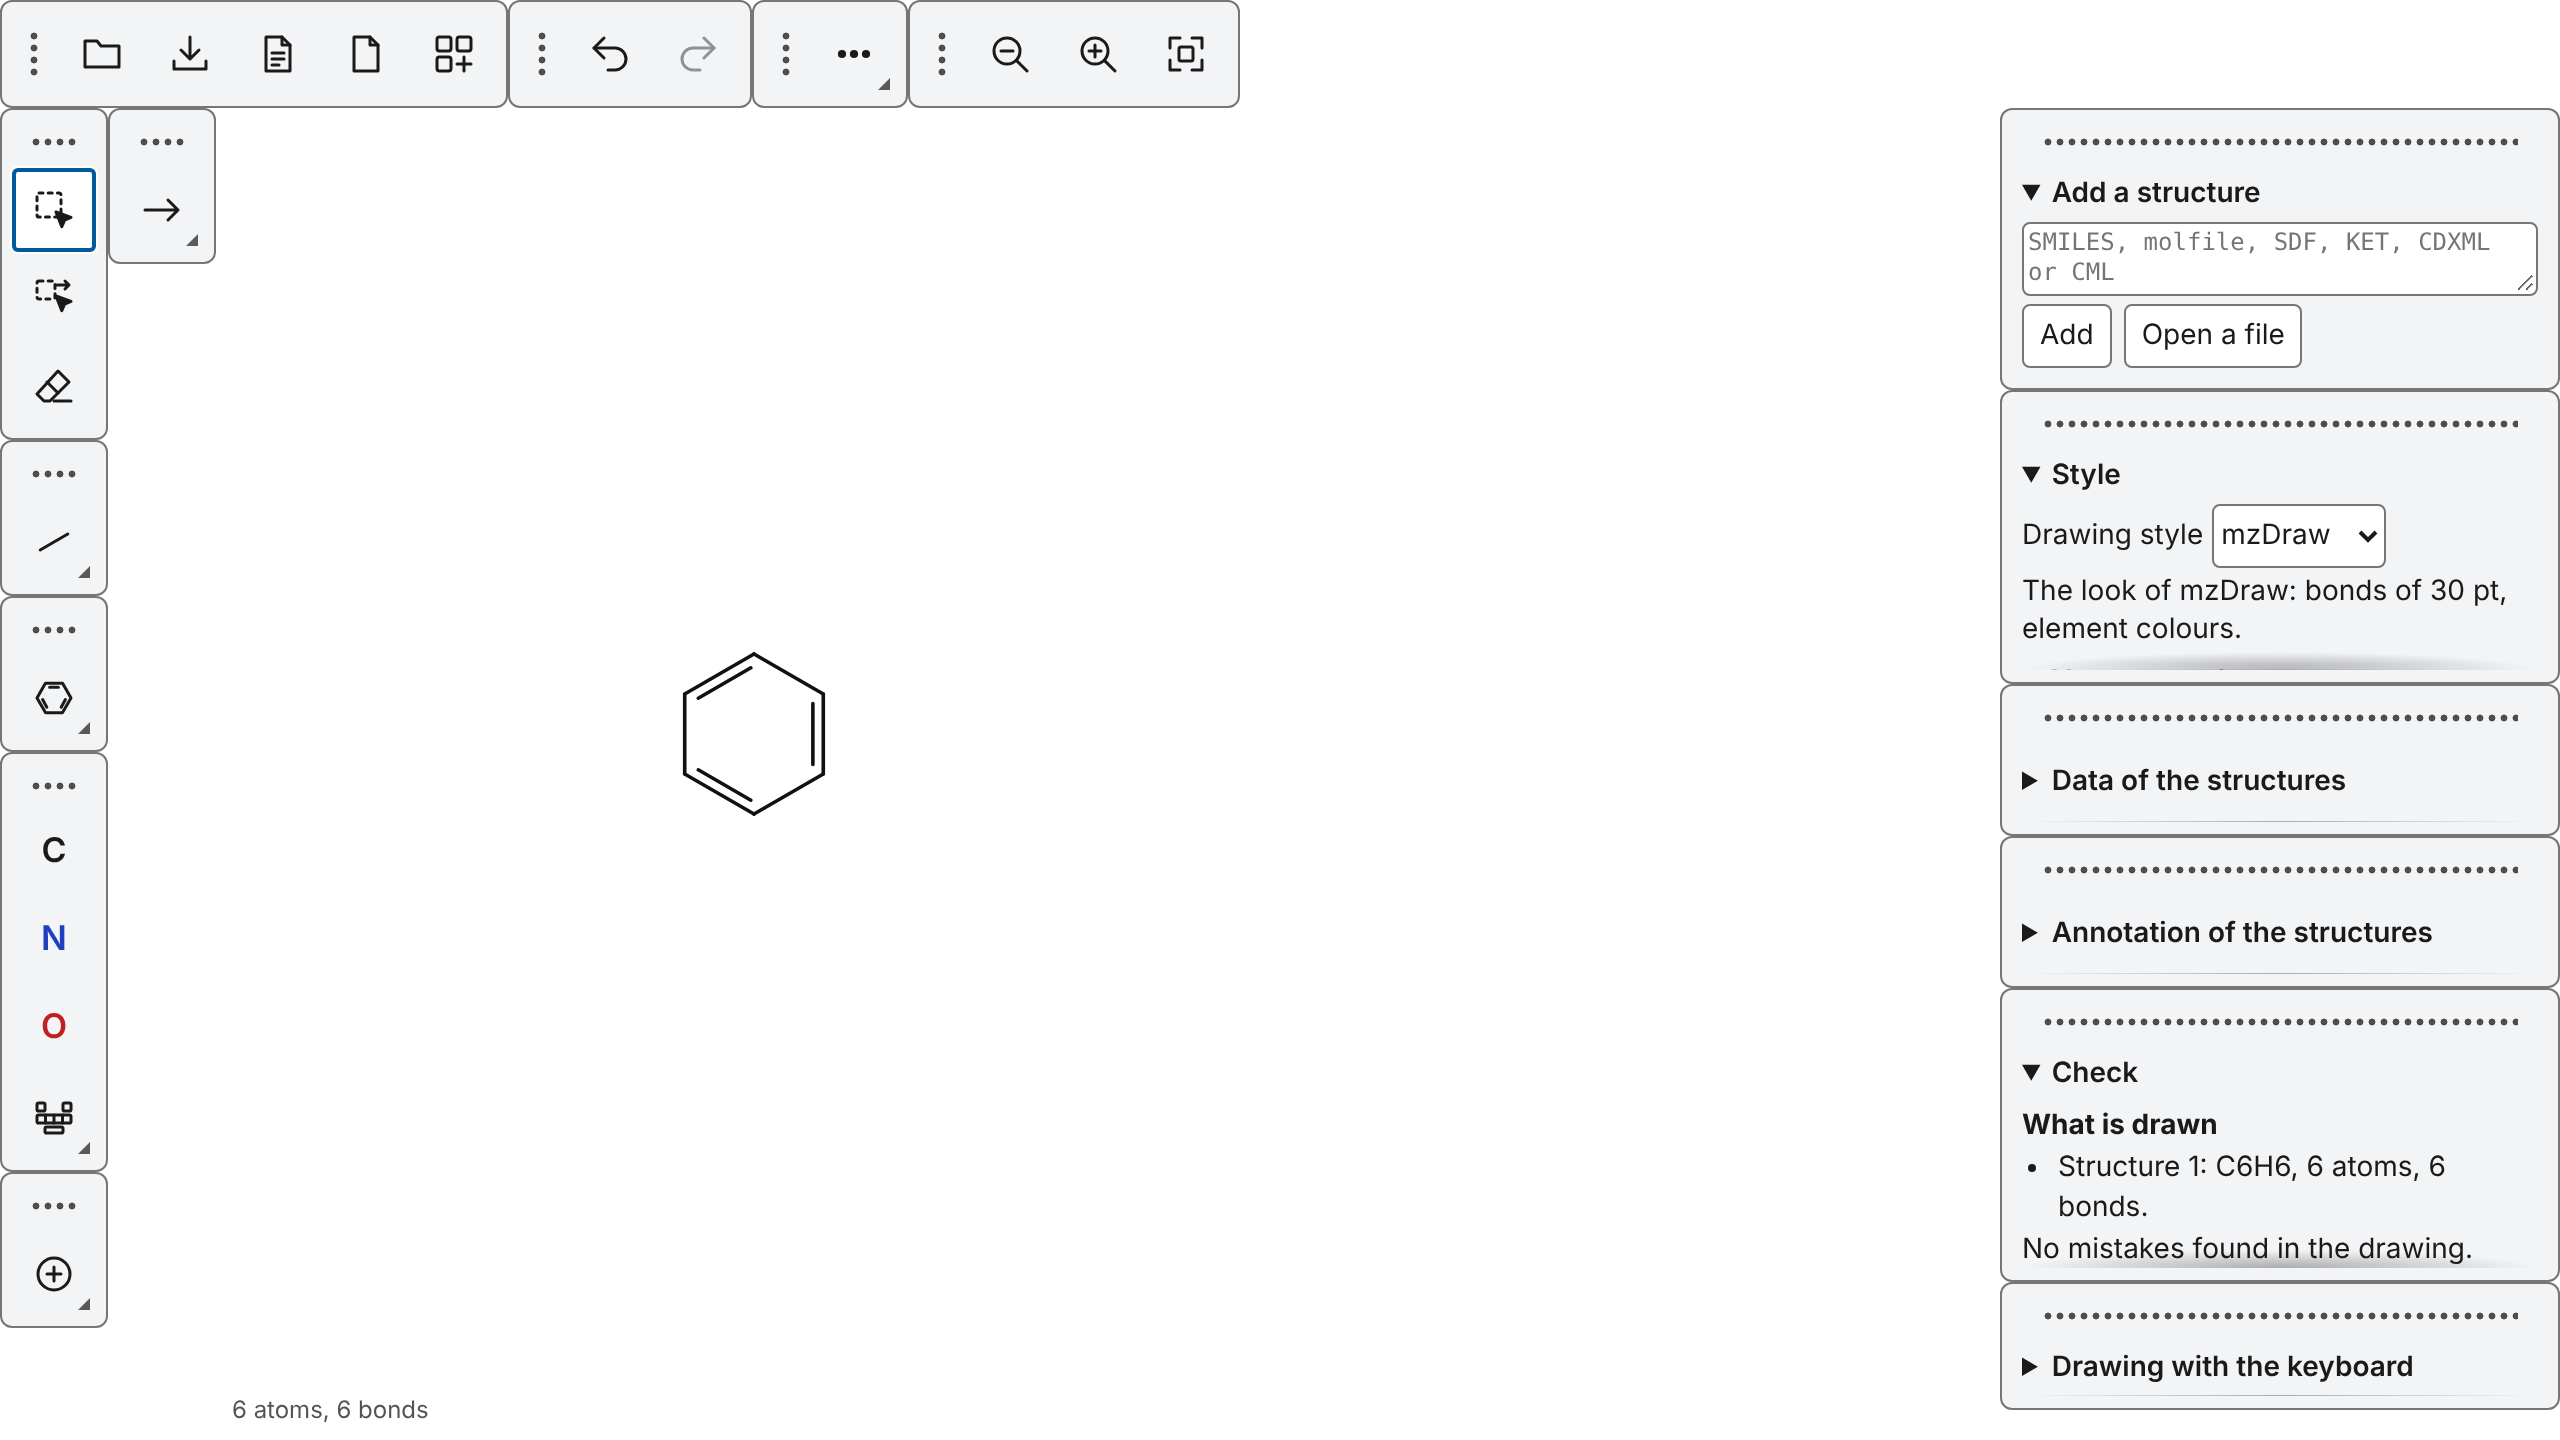
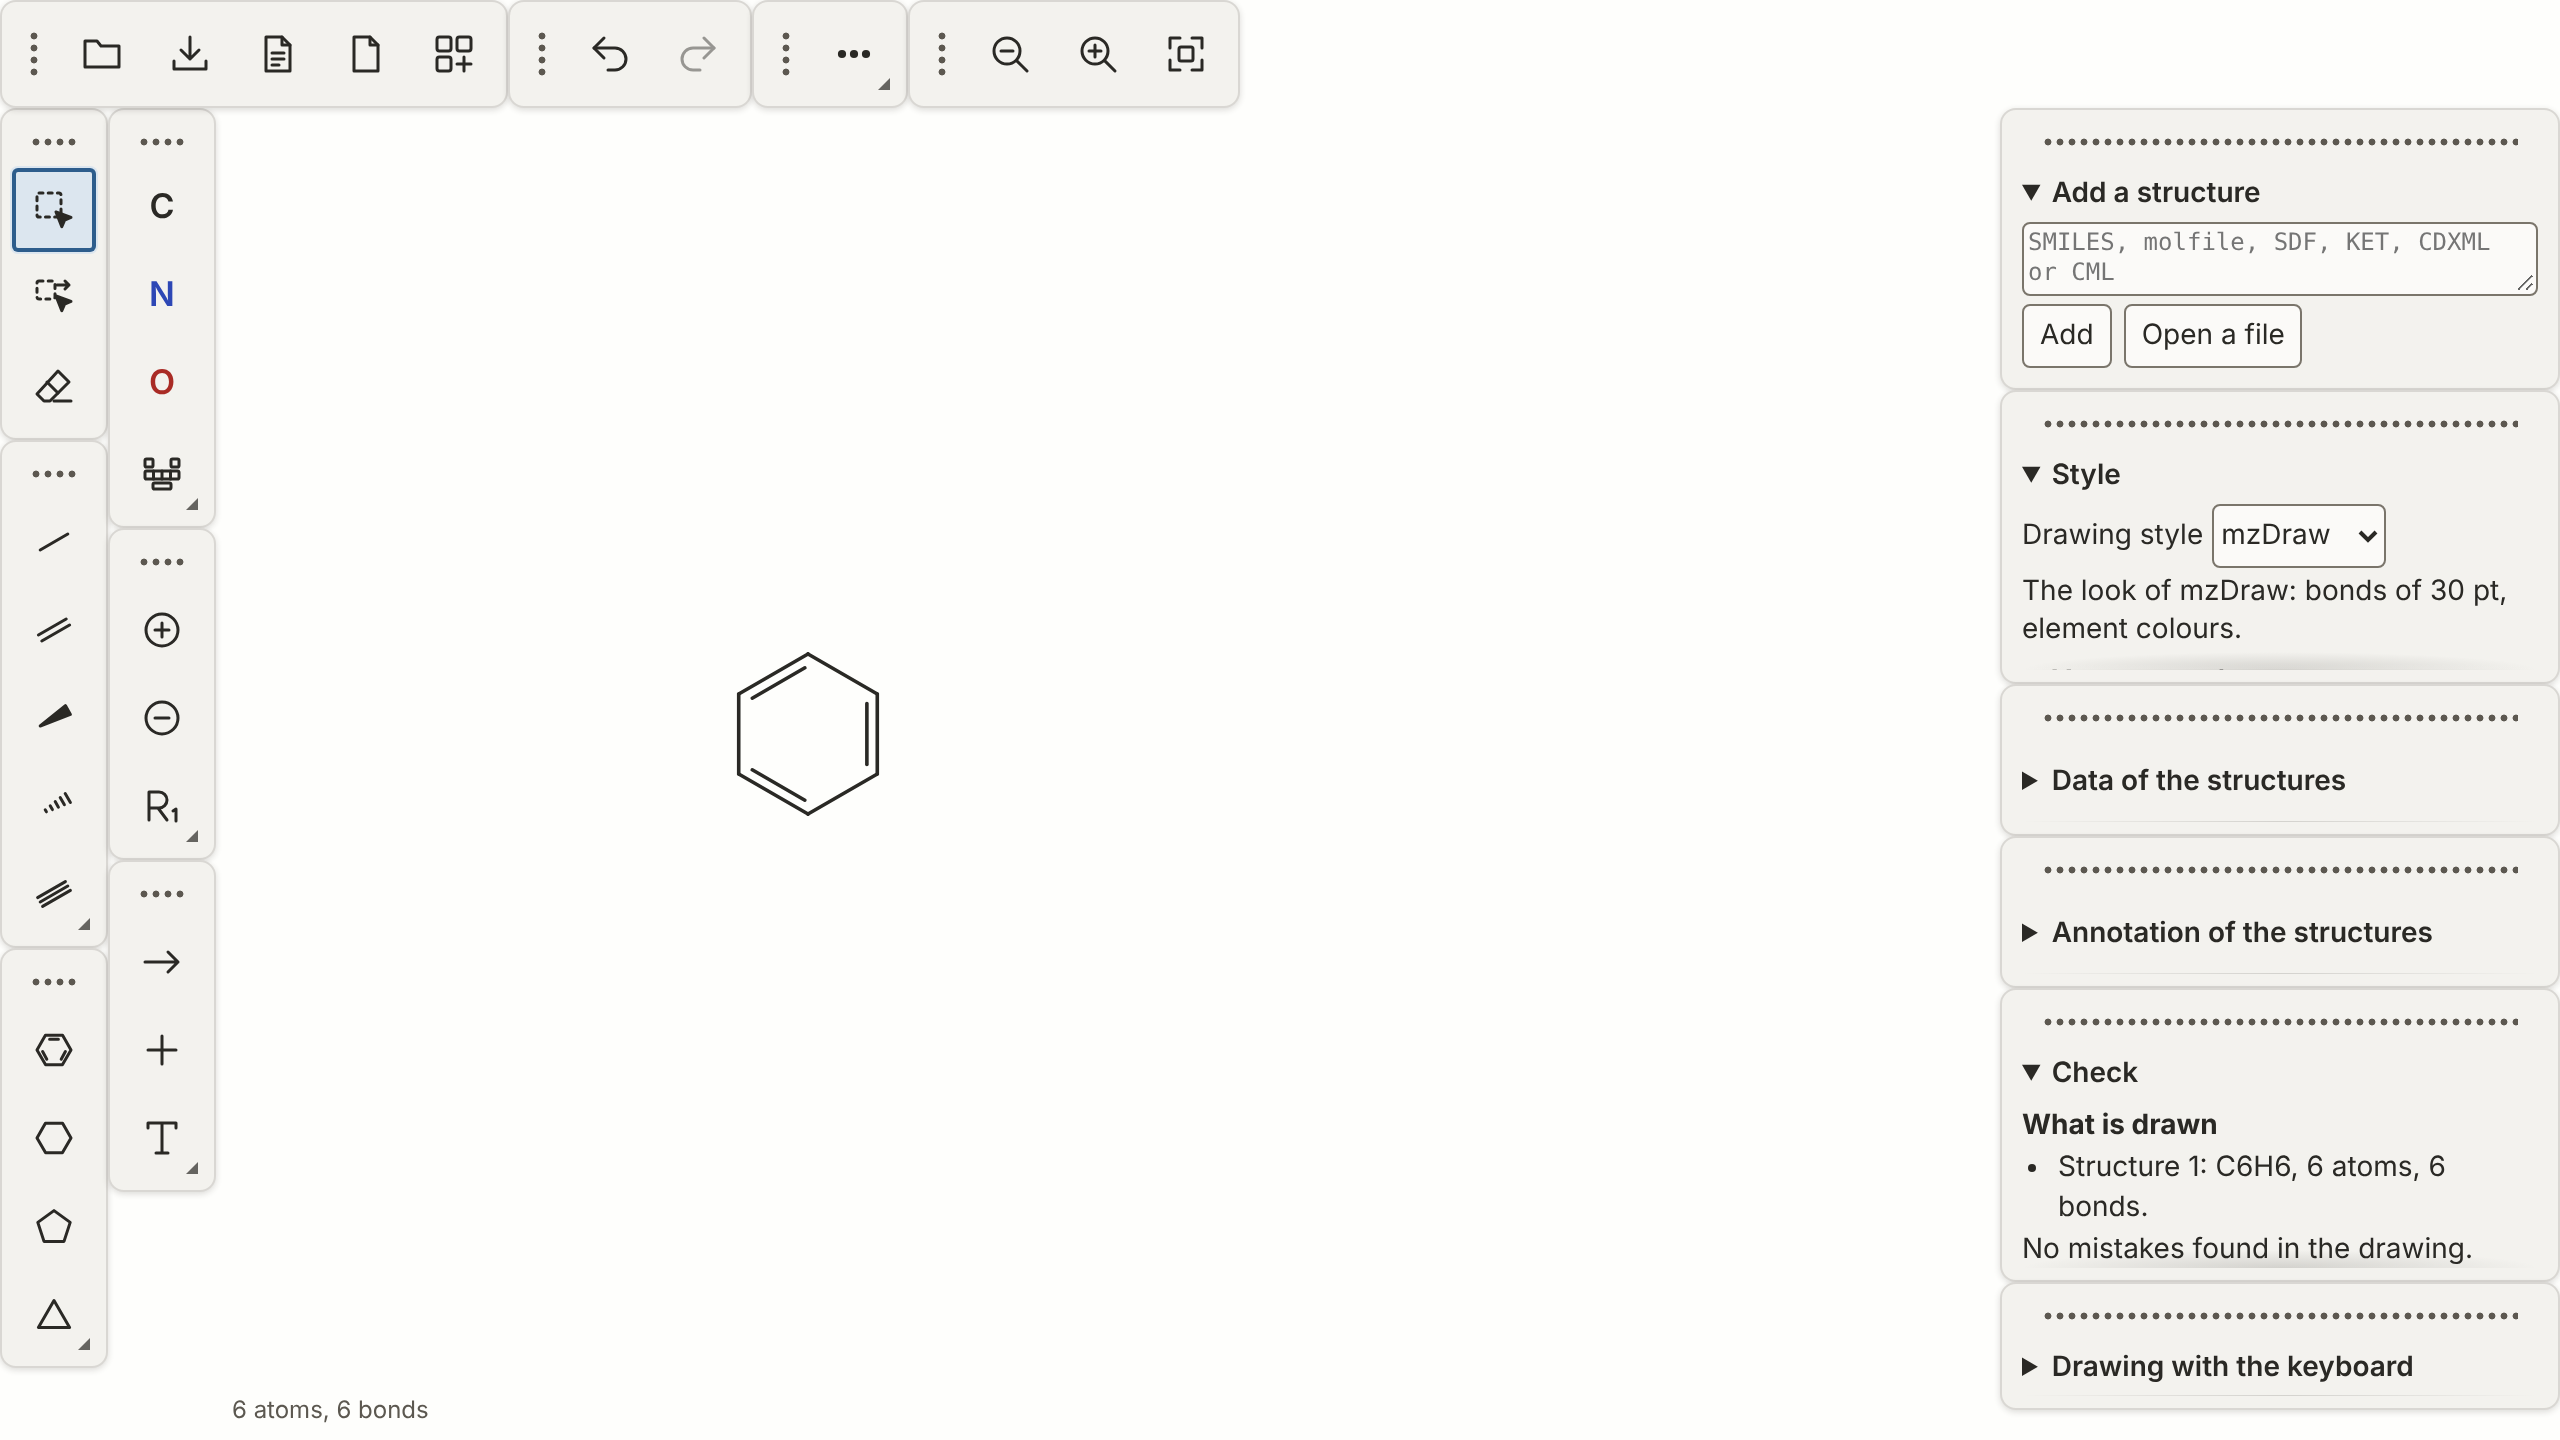
Keep the most-drawn tools in view in collapsed palettes; the velocity bench counts a hidden tool's flyout as actions
Single and double bond, the wedges, benzene, cyclohexane, cyclopentane, the charges, the arrow and the plus
stay visible when their palette is collapsed, so every task of tests/data/velocity keeps its action count
(--check passes, baseline unchanged); the bench counts the presses needed to reach a tool that is not in view.

Claude-Session: https://claude.ai/code/session_01Ly8ApnR6CMghdRhEmK6FkG

diff --git a/web/palettes.js b/web/palettes.js
@@ -15,11 +15,12 @@ const P = NAMES.id;
  * palettes are written in index.html. */
 const SPEC = /** @type {Record<string, any>} */ ({
   tools: { items: ["select", "move-here", "erase"], tool: true },
-  bonds: { items: ["bond:1", "bond:2", "bond:3", "bond:up", "bond:down", "bond:wavy"], tool: true },
-  rings: { items: ["ring:6a", "ring:3", "ring:4", "ring:5", "ring:6", "ring:7", "ring:8"], tool: true },
+  // the kinds drawn most (single and double bond, the wedges, benzene, cyclohexane, cyclopentane, a charge, an arrow, a plus) stay in view when the palette is collapsed
+  bonds: { keep: ["bond:1", "bond:2", "bond:up", "bond:down"], items: ["bond:3", "bond:wavy"], tool: true },
+  rings: { keep: ["ring:6a", "ring:6", "ring:5"], items: ["ring:3", "ring:4", "ring:7", "ring:8"], tool: true },
   atoms: { keep: ["atom:C", "atom:N", "atom:O"], items: ["atom:S", "atom:P", "atom:F", "atom:Cl", "atom:Br", "atom:I", "atom:H", "atom:B", "atom:Si"], head: "elements", more: "elements", owns: "atom:", fields: ["atom"], grid: true },
-  charges: { items: ["charge:+", "charge:-"], tool: true, owns: "label:", fields: ["label"], more: "label" },
-  objects: { items: ["arrow", "plus"], tool: true, owns: "text:", fields: ["text"], more: "text" },
+  charges: { keep: ["charge:+", "charge:-"], items: [], head: "label", owns: "label:", fields: ["label"], more: "label" },
+  objects: { keep: ["arrow", "plus"], items: [], head: "text", owns: "text:", fields: ["text"], more: "text" },
   file: { items: ["open", "save", "saveas", "clear", "palettes"], head: "open" },
   history: { items: ["undo", "redo"], head: "undo" },
   edit: { items: ["cut", "copy", "paste", "duplicate", "all", "rotate-l", "rotate-r", "flip-h", "flip-v"], head: "more" },

diff --git a/docs/built/palettes-page.md b/docs/built/palettes-page.md
@@ -3,3 +3,5 @@
 Every group of actions is a palette (`web/palettes.js`): tools, bonds, rings, atoms, charges and labels, reaction and text, file, history, edit, view, and the six side palettes (add a structure, style, data, annotation, check, keyboard help). The page builds them, measures them, sends the pointer (mouse, touch, pen) and key events of their handles to `palette(...)` and paints what `palettes(...)` answers: where each one is, its edge, row or column, collapsed or hidden. A collapsed palette shows its head, which shows the kind last used; the rest is in a flyout reached by click or by the arrow key across the palette. Handles are 24 px for a mouse and 44 px for touch and pen; a double click collapses a palette. The Palettes menu of the File palette shows, hides, collapses and turns each palette, resets the layout and hides them all (`\` on the canvas does the same; a Palettes button brings them back). The layout is kept with the settings file in the browser (OPFS). Save writes `export.default` (SVG unless set); Save as lists the 12 formats. The canvas takes the free area. The ids and storage names the scripts write are in `web/names.js`, the icons (original) in `web/icons.js`. The tools palette holds Select, Move here and Erase; the drawing checks `std/1` list is a section of the Check palette; a side palette is capped at a share of the page height (less on a touch screen, whose handles and buttons are larger) so the right column does not wrap into the canvas, and what does not fit scrolls inside it. The `\` key returns the flag `PALETTES` (128), which the page consumes: it lays the palettes out again and keeps the settings. Covered by two e2e steps (desktop: four edges, floating, snapped, keyboard, menu, `\`, reset, built keys only in tooltips; tablet: 44 px handles, drags by finger and pen, menu by tapping).
 
 Review round: what is decided is in Rust, the page paints it. `palettes(...)` answers the palette being dragged (`held`), the edge it docks on if let go now (`hint_edge`, the one `release` uses) and, per palette, whether it can turn (`can_turn`: only a floating one). The drag threshold is the module's (`DRAG_START`, 4 px): the page always forwards press, move, release and cancel, and a click with a little jitter moves nothing and stores nothing. The handle is named by `aria-label` and says its keys in `aria-description` (arrows, Shift, Enter, Escape, double click, the backslash key). The backslash key also works with the focus on a palette button or handle (not in a text field). The menu boxes are drawn with the page's colours, 44 px on a touch screen; the grip dots have their own token (`--grip`); hover styles apply only where there is a hover. A side palette that cannot show all of its content scrolls and shows a shadow at the edge with more behind it. The e2e checks a reload restores the layout, the jitter click, the handle's description and the key from a handle; the desktop shots are taken with a mouse and keyboard only (`docs/shots/palettes-*.png`, tablet: `palettes-tablet-side.png` without the menu and `palettes-tablet-menu.png` with it).
+
+Velocity: the kinds drawn most stay in view in a collapsed palette (`keep` in `SPEC` of `web/palettes.js`): single and double bond, the two wedges, benzene, cyclohexane, cyclopentane, the two charges, the arrow and the plus; the head of a palette holds the rest in its flyout. The left side is two columns at 720 px. `tests/velocity.mjs` counts a tool that is not in view as the presses needed to open its flyout (the head of a collapsed palette first runs the kind last used, then opens the flyout), so a hidden tool costs actions and the guard (`--check`) sees it; the baseline is unchanged.
